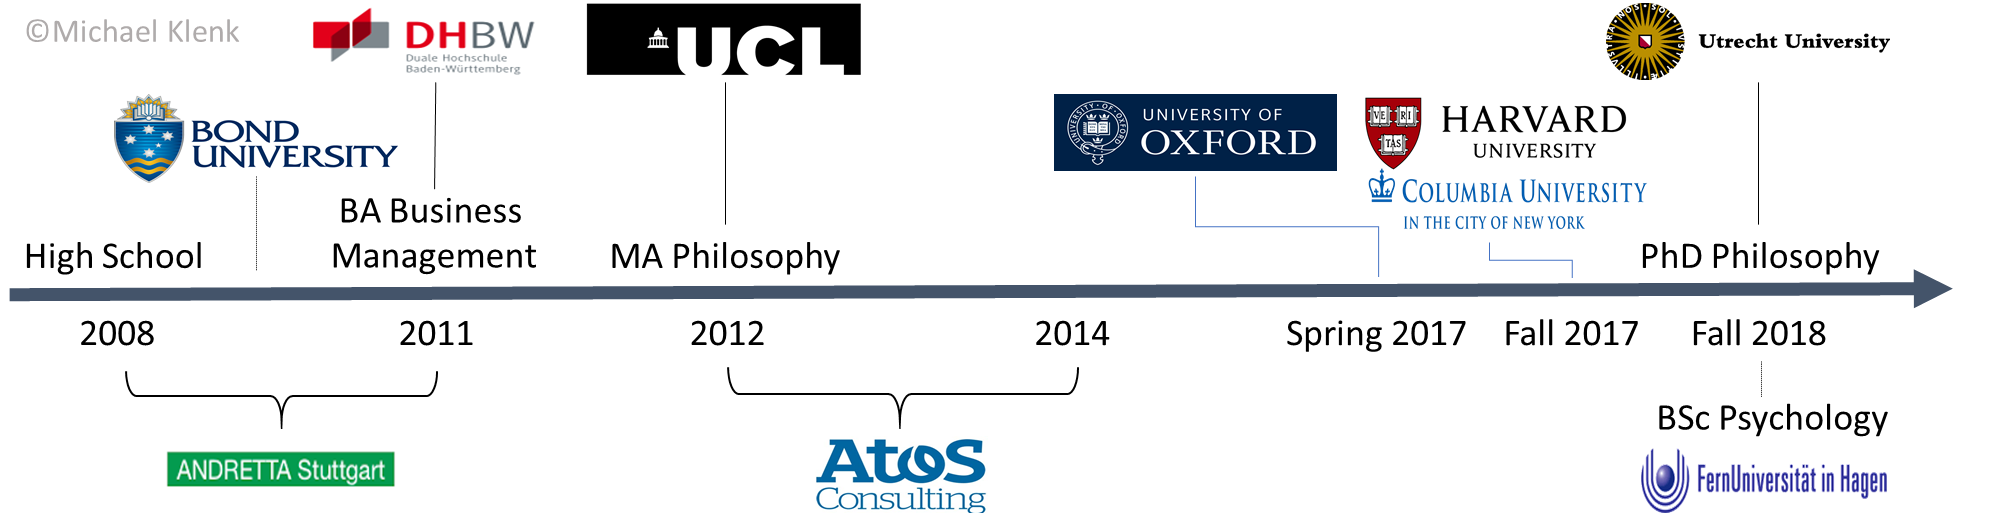
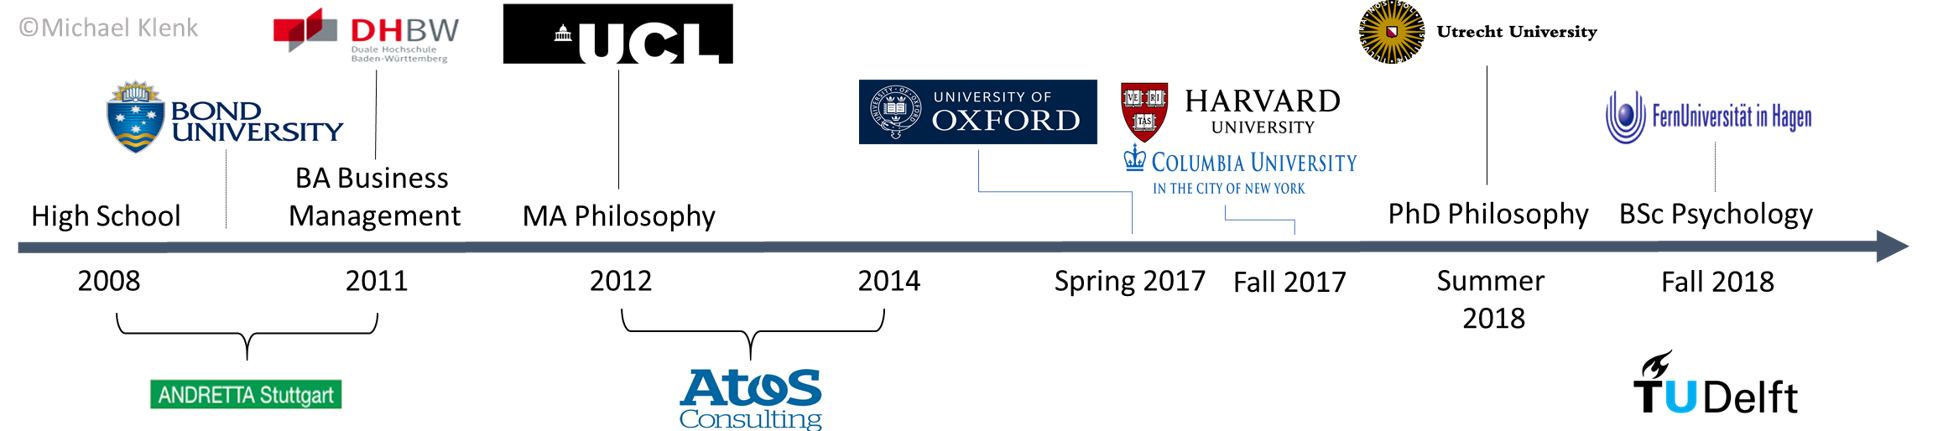
new cv, news and added promotion text

diff --git a/index.html b/index.html
@@ -65,11 +65,12 @@
             <h1>About Michael Klenk</h1>
           </div>
           <div class="personal-content">
-            <p>Currently I am a PhD candidate in philosophy at <a href="https://www.uu.nl/en">Utrecht University</a>; my supervisor is Herman Philipse.
+            <p>I obtained my PhD in Philosophy in June 2018 at <a href="https://www.uu.nl/en">Utrecht University</a>, under the supervision of Herman Philipse. My thesis, <em>Survival of Defeat - Evolution, Moral Objectivity, and Undercutting</em> is available <a href="https://dspace.library.uu.nl/handle/1874/364788">here</a>.
               <br>
-              In my dissertation, I assess whether and how <em>Darwinism about morality</em>, the view that moral thought has an evolutionary origin, impacts <em>moral objectivism</em>, a metaethical view that says that moral facts are independent of anyone's opinion. The challenge is to say how both views can be combined. If they can't be combined, then why is that the case?
+              In my dissertation, I assessed whether and how <em>Darwinism about morality</em>, the view that moral thought has an evolutionary origin, impacts <em>moral objectivism</em>, a metaethical view that says that moral facts are independent of anyone's opinion. The challenge is to say how both views can be combined. If they can't be combined, then why is that the case?
             </p>
-            <p>Apart from my research, I enjoy organising conferences (examples: <a href="http://www.evoethics.com/evolution-and-moral-epistemology-2018.html">Evolution and Moral Epistemology 2018</a>, <a href="http://www.evoethics.com/debunking--disagreement-2017.html">Debunking and Disagreement 2017</a>, <a href="http://dfdop37.weebly.com/">Dutch-Flemish Day of Philosophy 2017</a>, or <a href="http://scienceslam-stuttgart.org/">Science Slam Stuttgart</a>) and I am actively involved in the <a href="http://www.ozsw.nl/organisation/phd-council/">PhD council</a> of the Dutch Research School of Philosophy. If you want to get in touch, please contact me via <a href="mailto:m.b.o.t.klenk@uu.nl" target:"_top">email</a>.
+            <p>Apart from my research, I enjoy organising conferences (examples: <a href="http://www.evoethics.com/evolution-and-moral-epistemology-2018.html">Evolution and Moral Epistemology 2018</a>, <a href="http://www.evoethics.com/debunking--disagreement-2017.html">Debunking and Disagreement 2017</a>, <a href="http://dfdop37.weebly.com/">Dutch-Flemish Day of Philosophy 2017</a>, or <a href="http://scienceslam-stuttgart.org/">Science Slam Stuttgart</a>). From September 2018 onward, I will
+              be a lecturer in engineering ethics at <a href="https://www.tudelft.nl/en/tpm/about-the-faculty/departments/values-technology-and-innovation/sections/ethicsphilosophy-of-technology/">Delft University of Technology</a>. If you want to get in touch, please contact me via <a href="mailto:m.b.o.t.klenk@uu.nl" target:"_top">email</a>.
             </p>
             <p>
               Below is a visualisation of what I have done so far:
@@ -86,10 +87,11 @@
           </div>
           <div class="news-content">
             <ul>
+              <li>2018/06: I obtained my PhD, with three months left on my contract and, to my great satisfaction, my thesis was awarded 'cum laude', the highest possible distinction in the Netherlands (given to the top 3-5% of the field) (<a href="https://www.uu.nl/en/events/phd-thesis-defence-michael-klenk-evolution-moral-objectivity-and-undercutting">Link</a> to the announcement).</li>
               <li>2018/03: Submitted my thesis 'Survival of Defeat - Evolution, Moral Objectivity, and Undercutting' to the reading committee. Now it's time for new projects!</li>
-              <li>2018/01: Back from a fantastic stay the US and busy with writing up my thesis. Two of my papers have been accepted at the ACU Moral Epistemology Conference and the St. Andrews Graduate Conference.</li>
-              <li>2017/10: Presented my paper on disagreement and debunking at the <a href="https://poprocksphilosophy.wixsite.com/cambridge">Harvard/MIT Philosophy of Psyhology Workgroup</a></li>
-              <!--<li>2017/09: The <a href="www.dfdop37.weebly.com">37th Dutch Flemish Day of Philosophy</a> went very well from what I heard - thanks for Tijdde Tempels and Olya Kudina for taking over the moderation!</li>-->
+              <li>2018/01: Back from a fantastic stay the US and busy with writing up my thesis. Two of my papers have been accepted at the ACU Moral Epistemology Conference and the 2018 St. Andrews CEPPA Graduate Conference.</li>
+              <!--<li>2017/10: Presented my paper on disagreement and debunking at the <a href="https://poprocksphilosophy.wixsite.com/cambridge">Harvard/MIT Philosophy of Psyhology Workgroup</a></li>
+              <li>2017/09: The <a href="www.dfdop37.weebly.com">37th Dutch Flemish Day of Philosophy</a> went very well from what I heard - thanks for Tijdde Tempels and Olya Kudina for taking over the moderation!</li>-->
             </ul>
           </div>
         </div>
@@ -130,10 +132,10 @@
               <p>Undermining defeat is relatively well understood for experientially justified beliefs. I assess how it works in the case of a priori justified beliefs.</p>
               <p><em>Status: under review.</em></p>
             </div>
-            <div class="wip-card" id="art6">
+            <!--<div class="wip-card" id="art6">
               <h3>Third-factor explanations and metaethics</h3>
               <p>I consider whether third-factor explanations in metaethics might be constrained by concerns about moral disagreement.</p>
-              <p><em>Status: under review.</em></p>
+              <p><em>Status: under review.</em></p>-->
             </div>
           </div>
         </div>
@@ -146,6 +148,18 @@
             <h2>Click on the journal cover to get to the published article.</h2>
           </div>
           <div class="articles-content">
+            <article class="article" id="art6">
+              <div class="article-info">
+                <h3>Third factor explanations and disagreement in metaethics</h3>
+                <p><strong>Abstract:</strong> Several moral objectivists try to explain the reliability of moral beliefs by appealing to a third factor, a substantive moral claim that explains, first, why we have the moral beliefs that we have and, second, why these beliefs are true.
+                  Folke Tersman has recently suggested that moral disagreement constrains the epistemic legitimacy of third-factor explanations.
+                  Apart from constraining third-factor explanations, Tersman’s challenge could support the view that the epistemic significance of debunking explanations depends on the epistemic significance of disagreement.
+                  I aim at showing that disagreement does not constrain the epistemic legitimacy of third-factor explanations in metaethics, and suggest a way forward in addressing the view that debunking depends on disagreement.</p>
+              </div>
+              <div class="article-cover">
+                <a href="https://link.springer.com/article/10.1007/s11229-018-1875-8"><img src="resources/images/synthese.jpg" alt="picture of article 6"></a>
+              </div>
+            </article>
             <article class="article" id="art2">
               <div class="article-info">
                 <h3>Can Moral Realists deflect defeat due to evolutionary explanations of morality?</h3>
@@ -249,7 +263,7 @@
       </section>
     </main>
     <footer>
-      <h5>&copy; Michael Klenk 2017</h5>
+      <h5>&copy; Michael Klenk 2018</h5>
       <div>
         <a href="http://uu.academia.edu/MichaelKlenk"><img src="resources/images/academia.png" alt="Academia Link"></a>
         <a href="http://www.linkedin.com/in/mbklenk"><img src="resources/images/linkedin.png" alt="LinkedIn Link"></a>
